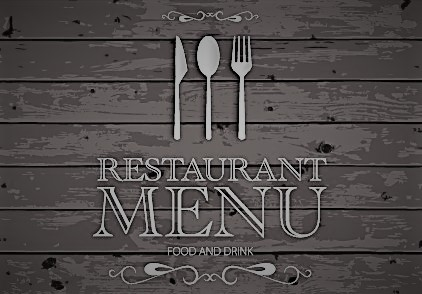
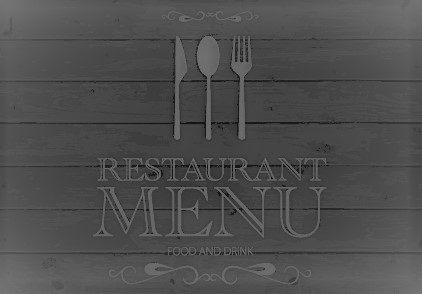
CHanged Background formats

diff --git a/AddMeal.html b/AddMeal.html
@@ -19,7 +19,6 @@
     <style>  
     .content-admin{
         background-image: url("img/background/01.jpg");
-        background-size: cover;
         font-family: 'Lucida Sans';
         margin: 0px 10px 0px 120px;
         width: 1182px;  

diff --git a/AddOrder.html b/AddOrder.html
@@ -19,7 +19,6 @@
     <style>  
     .content-admin{
         background-image: url("img/background/01.jpg");
-        background-size: cover;
         font-family: 'Lucida Sans';
         margin: 0px 10px 0px 120px;
         width: 1182px;  

diff --git a/AdminViewItems.html b/AdminViewItems.html
@@ -19,7 +19,6 @@
     <style>  
     .content-admin{
         background-image: url("img/background/01.jpg");
-        background-size: cover;
         font-family: 'Lucida Sans';
         margin: 0px 10px 0px 120px;
         width: 1200px;  

diff --git a/AdminViewOrder.html b/AdminViewOrder.html
@@ -19,7 +19,6 @@
     <style>  
     .content-admin{
         background-image: url("img/background/01.jpg");
-        background-size: cover;
         font-family: 'Lucida Sans';
         margin: 0px 10px 0px 120px;
         width: 1200px;  

diff --git a/Administrator.html b/Administrator.html
@@ -19,7 +19,6 @@
     <style>  
     .content-admin{
         background-image: url("img/background/01.jpg");
-        background-size: cover;
         font-family: 'Lucida Sans';
         margin: 0px 10px 0px 120px;
         width: 1184px;  

diff --git a/Aindex.html b/Aindex.html
@@ -19,7 +19,6 @@
     <style>  
     .content-admin{
         background-image: url("img/background/01.jpg");
-        background-size: cover;
         font-family: 'Lucida Sans';
         margin: 0px 10px 0px 120px; 
         width: 1200px; 

diff --git a/CAddOrder.html b/CAddOrder.html
@@ -19,7 +19,6 @@
     <style>  
     .content-admin{
         background-image: url("img/background/01.jpg");
-        background-size: cover;
         font-family: 'Lucida Sans';
         margin: 0px 10px 0px 120px;
         width: 1182px;  

diff --git a/FastFoodOrders.html b/FastFoodOrders.html
@@ -19,7 +19,6 @@
     <style>  
     .content-admin{
         background-image: url("img/background/01.jpg");
-        background-size: cover;
         font-family: 'Lucida Sans';
         margin: 0px 10px 0px 120px;
         width: 1200px;  

diff --git a/ViewOrder.html b/ViewOrder.html
@@ -19,7 +19,6 @@
     <style>  
     .content-admin{
         background-image: url("img/background/01.jpg");
-        background-size: cover;
         font-family: 'Lucida Sans';
         margin: 0px 10px 0px 120px;
         width: 1200px;  

diff --git a/Chome.html b/Chome.html
@@ -19,7 +19,6 @@
     <style>  
     .content-admin{
         background-image: url("img/background/01.jpg");
-        background-size: cover;
         font-family: 'Lucida Sans';
         margin: 0px 10px 0px 120px;
         width: 1200px; 
